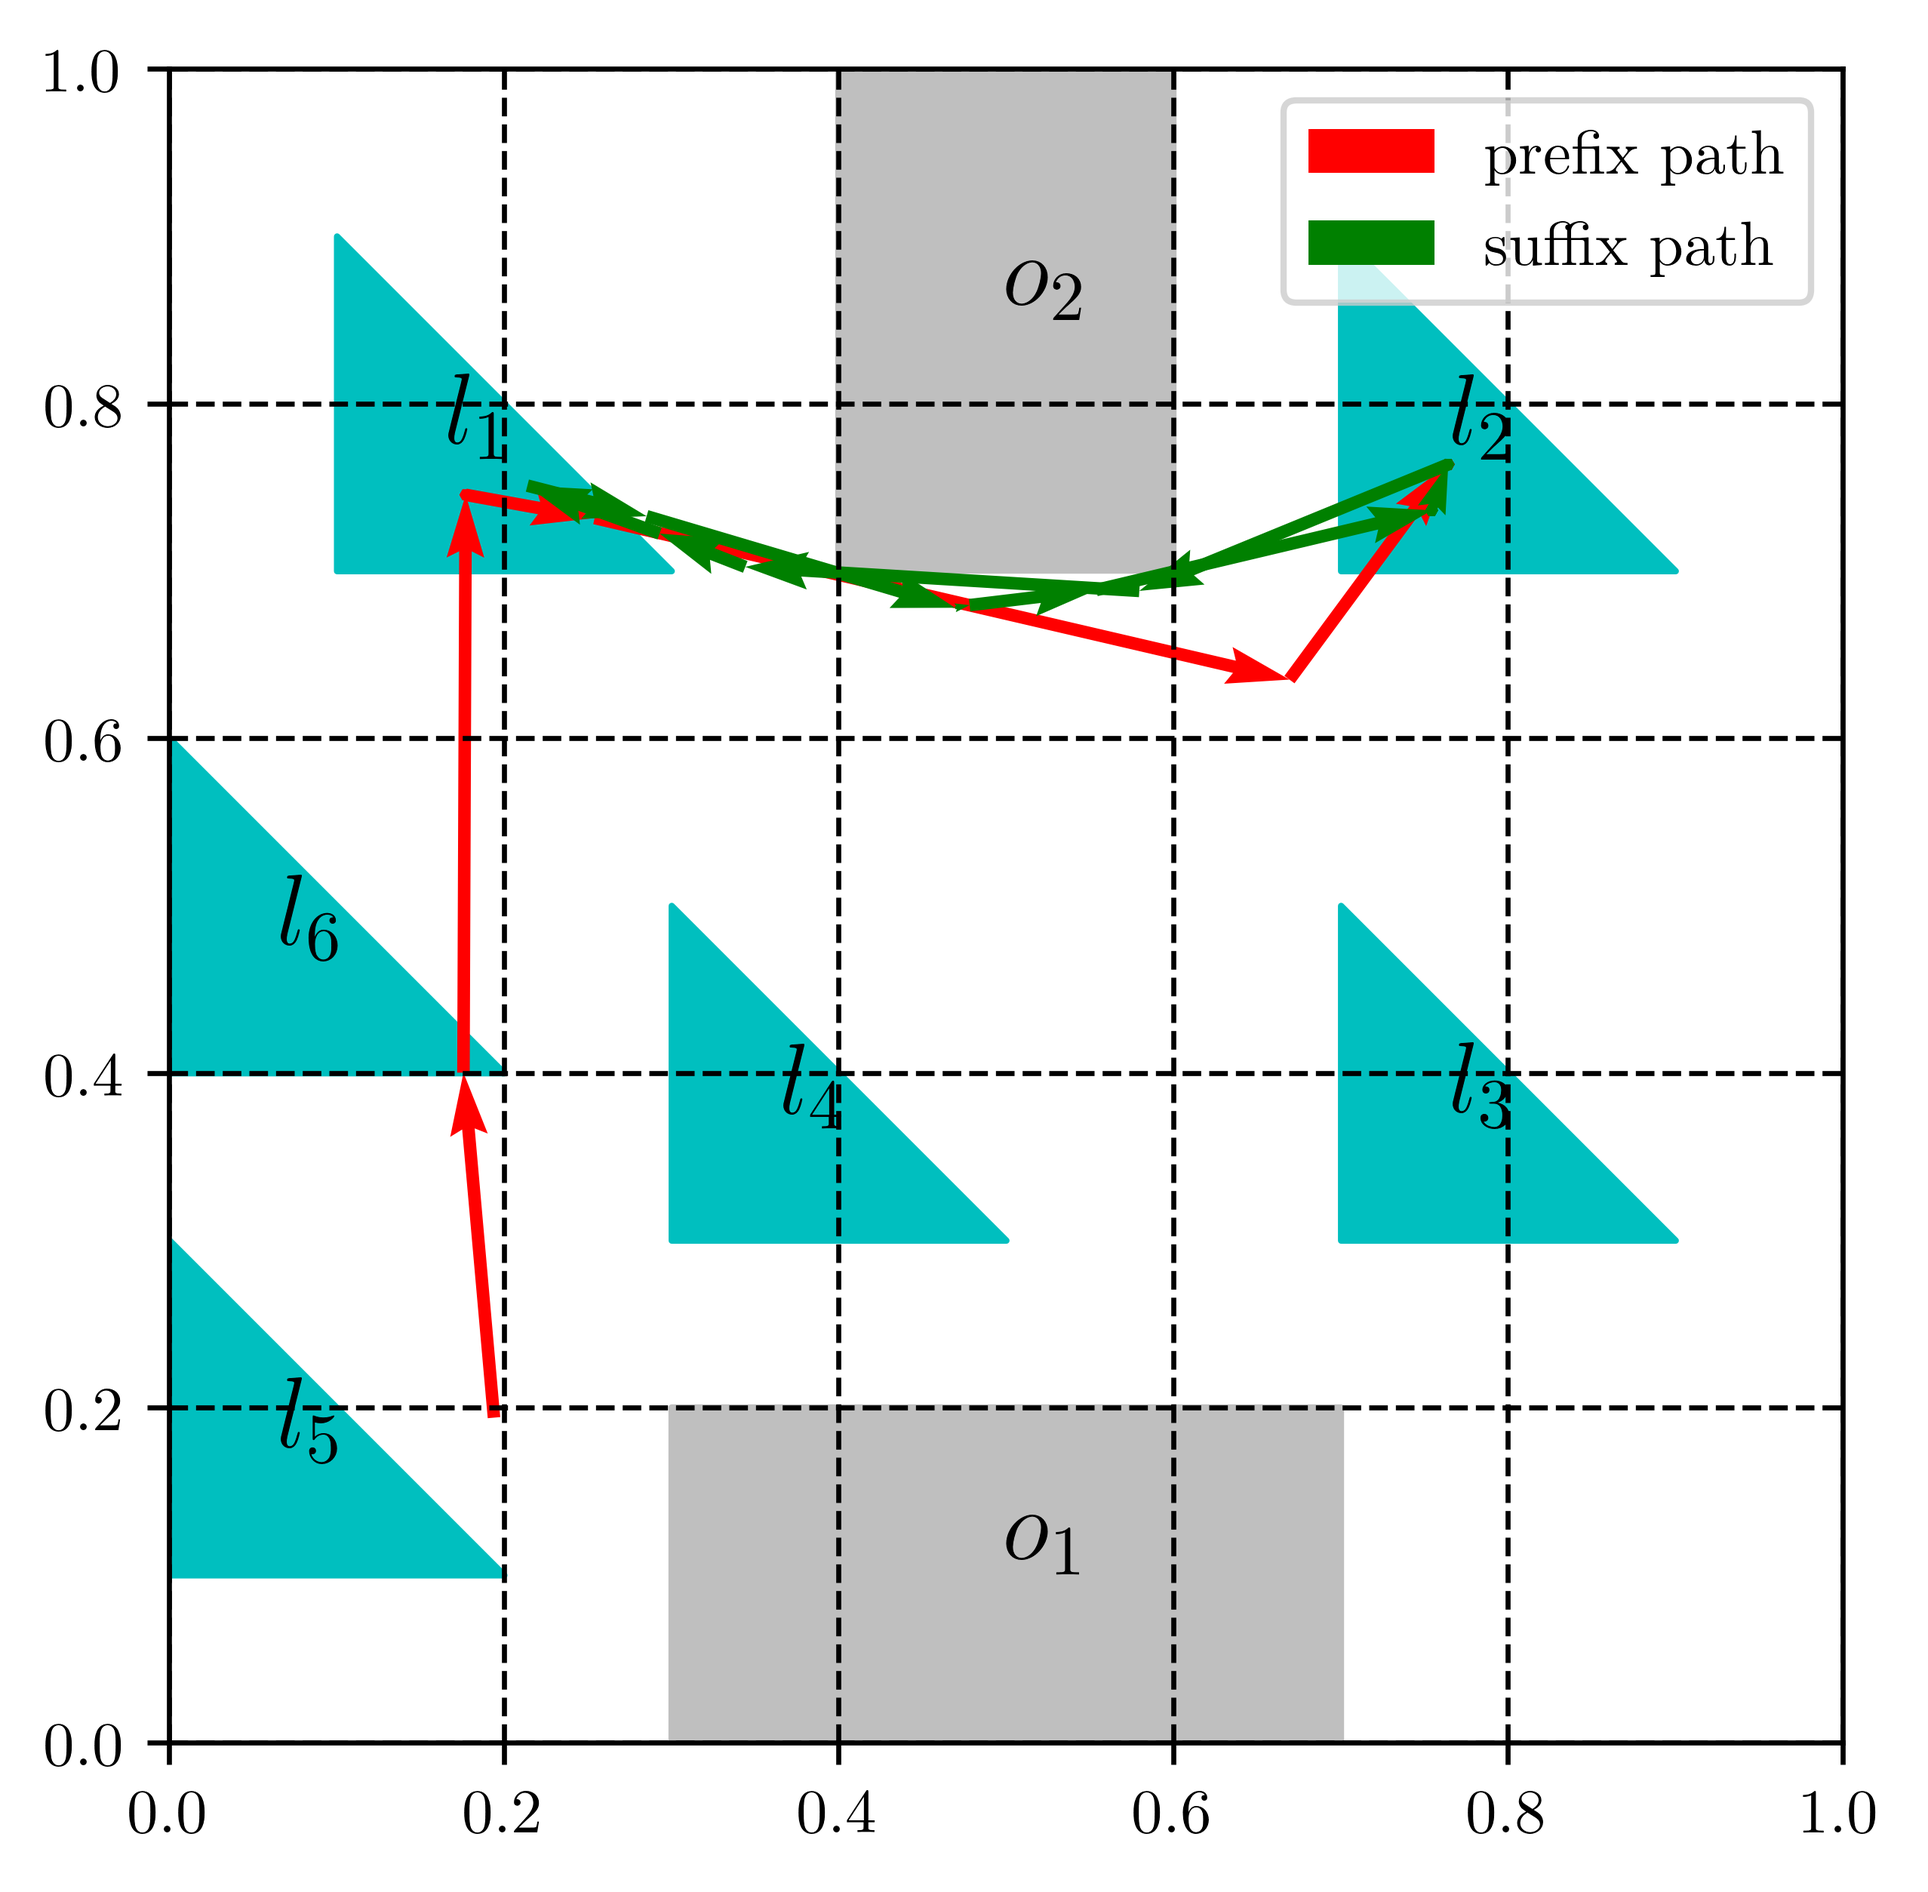
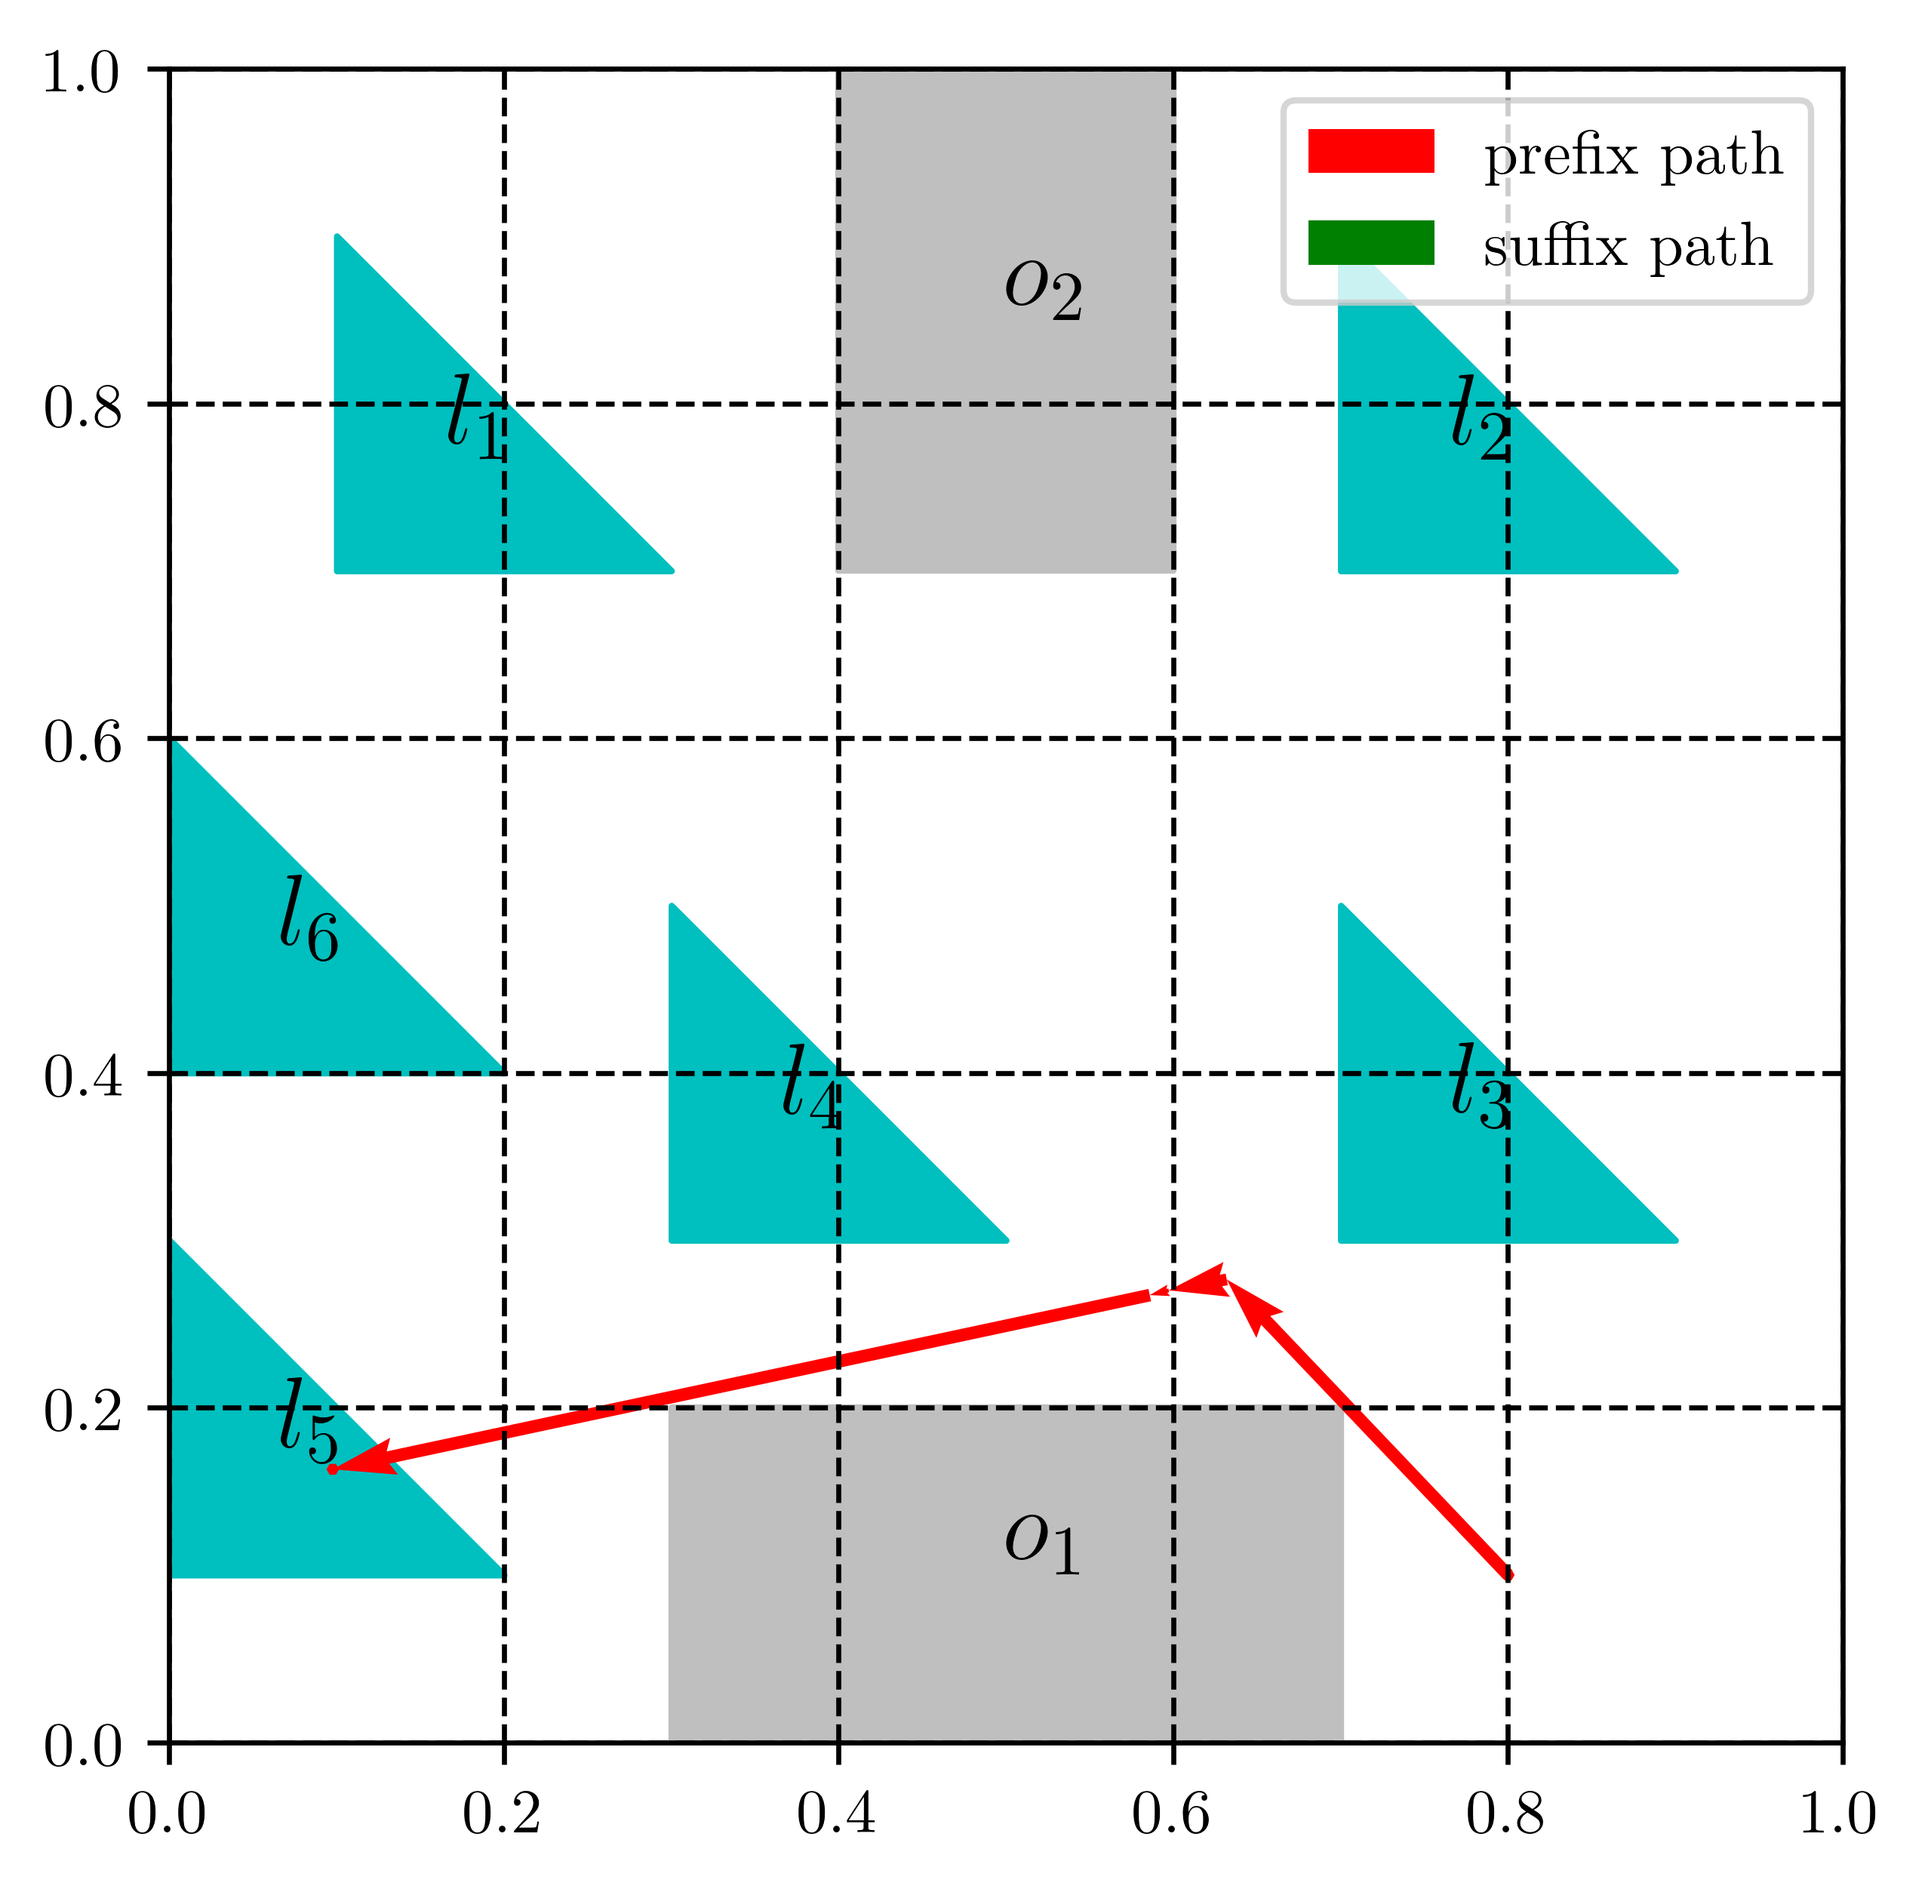
update README

diff --git a/task.py b/task.py
@@ -32,23 +32,23 @@ class Task(object):
 
         # task specification, e_i are subformulas, li_j means the j-th robot is at regions l_i
         # --------------------------- Task 1 -------------------------------
-        self.formula = '<> e1 && []<> (e2 && <> e3) && (!e3 U e4) && []!e5'
-        self.subformula = {1: '(l1_1)',
-                           2: '(l2_1)',
-                           3: '(l3_1)',
-                           4: '(l4_1)',
-                           5: '(l5_1)',
-                           }
-        # --------------------------- Task 2 -------------------------------
-        # self.formula = '[]<> e1 && []<> e3 && !e1 U e2'
+        # self.formula = '<> e1 && []<> (e2 && <> e3) && (!e3 U e4) && []!e5'
         # self.subformula = {1: '(l1_1)',
-        #                    2: '(l6_1)',
-        #                    3: '(l5_2)'
-        #                 }
+        #                    2: '(l2_1)',
+        #                    3: '(l3_1)',
+        #                    4: '(l4_1)',
+        #                    5: '(l5_1)',
+        #                    }
+        # --------------------------- Task 2 -------------------------------
+        self.formula = '[]<> e1 && []<> e3 && !e1 U e2'
+        self.subformula = {1: '(l1_1)',
+                           2: '(l6_1)',
+                           3: '(l5_2)'
+                        }
 
         # --------------------------- Task 3 -------------------------------
         # randomly generate tasks
-        # num_of_robot_in_one_group = 8
+        # num_of_robot_in_one_group = 3
         # group = np.array(range(1, self.number_of_robots + 1))
         # np.random.shuffle(group)
         # group = group.reshape(8, num_of_robot_in_one_group)
@@ -67,10 +67,8 @@ class Task(object):
         #         subformula.append('l' + str(np.random.randint(1, 7)) + '_' + str(robot))
         #
         #     formula.append('(' + ' && '.join(subformula) + ')')
-        #
-        # self.subformula = {i: formula[i-1] for i in range(1, 9)}
-        # self.formula = '[]<> e1 && []<> e2 && []<> e3 && []<>(e4 && <>(e5 && <> e6)) && <> e7 && []<>e8 && (!e7 U e8)'
 
+        # self.subformula = {i: formula[i-1] for i in range(1, 9)}
         # --------------------------- Task 4 -------------------------------
         # self.formula = '[]<> e1 && []<> e2 && []<> e3 && []<>(e4 && <>(e5 && <> e6))'
         # self.subformula = {
@@ -82,7 +80,8 @@ class Task(object):
         #     6: '(l6_3)'}
 
         # randomly generate initial locations of robots with empty atomic propositions
-        self.number_of_robots = 1   # self.number_of_robots = num_of_robot_in_one_group * 8 for task 5
+        # self.number_of_robots = num_of_robot_in_one_group * 8  # for task 3
+        self.number_of_robots = 2
         self.init = []
         self.init_label = []
         for i in range(self.number_of_robots):
@@ -97,3 +96,4 @@ class Task(object):
             self.init_label.append(ap)
         self.init = tuple(self.init)          # in the form of ((x, y), (x, y), ...)
         self.threshold = 0.005                # minimum distance between any pair of robots
+

diff --git a/biased_TLRRT_star.py b/biased_TLRRT_star.py
@@ -29,17 +29,17 @@ print('Time for constructing the NBA: {0:.4f} s'.format(NBA_time))
 workspace = Workspace()
 
 # parameters
-n_max = 40000
+n_max = 10000
 para = dict()
 # lite version, excluding extending and rewiring
 para['is_lite'] = True
 # step_size used in function near
 para['step_size'] = 0.25 * buchi.number_of_robots
-# probability
+# probability of choosing node q_p_closest
 para['p_closest'] = 0.9
-# target point
+# probability used when deciding the target point
 para['y_rand'] = 0.99
-# threshold for collision avoidance
+# minimum distance between any pair of robots
 para['threshold'] = task.threshold
 
 cost_path = OrderedDict()
@@ -93,7 +93,7 @@ for b_init in buchi_graph.graph['init']:
 
         print('-------------- suffix path for {0}-th pre-goal (of {1} in total) --------------'.format(i+1,
                                                                                                    len(tree_pre.goals)))
-        print('{0}-th pre-goals: {1} accepting goals found'.format(i, len(tree_suf.goals)))
+        print('{0}-th pre-goals: {1} accepting goals found'.format(i+1, len(tree_suf.goals)))
 
         # couldn't find the path within predtermined number of iterations
         if not cost_path_suf_cand:

diff --git a/buchi_parse.py b/buchi_parse.py
@@ -63,7 +63,7 @@ class Buchi(object):
                 relation_group = re.findall(r':: (\(.*?\)) -> goto (\w+)\n\t', state_if_fi[0])
                 for symbol, next_state in relation_group:
                     # delete edges with multiple labels
-                    # if ' && ' in symbol: continue
+                    if ' && ' in symbol: continue
                     # whether the edge is feasible in terms of atomic propositions
                     for k in order_key:
                         symbol = symbol.replace('e{0}'.format(k), self.subformula[k])

diff --git a/construct_biased_tree.py b/construct_biased_tree.py
@@ -54,7 +54,7 @@ def construction_biased_tree(tree, n_max):
             if not tree.lite and added:
                 tree.rewire(q_new, near_nodes, obs_check)
 
-        # first accepting state
+        # detect the first accepting state
         if len(tree.goals): break
 
     return tree.find_path(tree.goals)

diff --git a/README.md b/README.md
@@ -25,11 +25,13 @@ states.
 
 # Usage
 
-First, specify the LTL task in the file [task.py](/task.py), which mainly involves the assigned task, the number of robots
+* First, specify the LTL task in the file [task.py](/task.py), which mainly involves the assigned task, the number of robots
 , the initial locations of robots and the minimum distance between any pair of robots, and workspace in the file [workspace.py](/workspace.py) that contains the information 
-about the size of the workspace, the layout of regions and obstacles. Second, set the parameters used in the TLRRT* in the
+about the size of the workspace, the layout of regions and obstacles. 
+* Second, set the parameters used in the TLRRT* in the
 file [construct_biased_tree.py](/construct_biased_tree.py), such as the maximum number of iterations, the step size, whether the lite version that does not use function `near`, `extend` and `rewire` in 
-[biased_tree.py](/biased_tree.py) is used. Finally, after the TLRRT* terminates, the runtime and the cost of the solution is 
+[biased_tree.py](/biased_tree.py) is used. 
+* Finally, after the TLRRT* terminates, the runtime and the cost of the solution is 
 presented. What's more, the path composed of prefix and suffix parts for each robot is drawn with workspace layout when the number of robots is relatively small, otherwise, the path for each
 robot is printed onto the screen when the number of robots is large. 
 
@@ -41,8 +43,30 @@ The workspace of size `1-by-1` is shown below, with `l_1`-`l_6` being regions an
 <img src="workspace.png"  width="750" height="500">
 </p>
 
-## Case 1
-The task is specified by 
+## Test Cases
+For all the following test cases, the same set of parameters are used.
+```python
+# parameters
+# maximum number of iterations
+n_max = 10000
+para = dict()
+# lite version, excluding extending and rewiring
+para['is_lite'] = True
+# step_size used in function near
+para['step_size'] = 0.25 * buchi.number_of_robots
+# probability used when choosing node q_p_closest
+para['p_closest'] = 0.9
+# probability used when deciding the target point 
+para['y_rand'] = 0.99
+# minimum distance between any pair of robots  
+para['threshold'] = 0.005
+```
+Furthermore, the construction of the tree terminates once an accepting node is detected, which is controlled in [construct_biased_tree.py](construct_biased_tree.py) by line
+```python
+if len(tree.goals): break
+```
+### Case 1
+The task involving one robot is specified by 
 ```python
 self.formula = '<> e1 && []<> (e2 && <> e3) && (!e3 U e4) && []!e5'
 self.subformula = { 1: '(l1_1)',
@@ -52,26 +76,25 @@ self.subformula = { 1: '(l1_1)',
                     5: '(l5_1)',
                     }     
 self.init = ((0.8, 0.1), )  # in the form of ((x,y), (x,y), ...)    
-self.threshold = 0.005      # minimum distance between any pair of robots  
 ```
-The result regarding 
-```python
-Time for constructing the NBA: 0.1324 s
+The output result during execution is 
+```
+Time for constructing the NBA: 0.1343 s
 ------------------------------ prefix path --------------------------------
-Time for the prefix path: 0.1253 s
+Time for the prefix path: 0.0516 s
 1 accepting goals found
 -------------- suffix path for 1-th pre-goal (of 1 in total) --------------
-0-th pre-goals: 1 accepting goals found
-Time for the suffix path: 0.0809 s
+1-th pre-goals: 1 accepting goals found
+Time for the suffix path: 0.0561 s
 ------------------------ prefix + suffix path -----------------------------
 t_pre  | t_suf  | t_total | cost
-0.1253 | 0.0809 | 0.3385  | 2.3579
+0.0516 | 0.0561 | 0.2421  | 1.7245
 ------------------------- print the path path -----------------------------
 (. for empty label, || ... || for the suffix path)
-robot 1 :  . -->  . -->  . -->  . --> l1 -->  . --> l1 -->  . -->  . -->  . -->  . --> l2 -->  . -->  . -->  . --> l4 --> l4 --> || l4 -->  . --> l3 -->  . -->  . --> l2 --> l2 -->  . -->  . --> l4 --> || 
-
+robot 1 :  . -->  . -->  . -->  . -->  . -->  . -->  . --> l4 --> l1 -->  . -->  . --> l2 --> l2 --> || l2 --> l3 --> l3 -->  . --> l2 --> l2 --> l2 --> || 
 ```
-## Case 2
+### Case 2
+The task involving two robots is specified by 
 ```python
 self.formula = '[]<> e1 && []<> e3 && !e1 U e2'
 self.subformula = { 1: '(l1_1)',
@@ -79,14 +102,45 @@ self.subformula = { 1: '(l1_1)',
                     3: '(l5_2)'
                     }
 self.init = ((0.8, 0.1), (0.8, 0.1))  # in the form of ((x,y), (x,y), ...)    
-self.threshold = 0.005                # minimum distance between any pair of robots                    
 ```
-## Case 3
+The output result during execution is 
+```
+Time for constructing the NBA: 0.0225 s
+------------------------------ prefix path --------------------------------
+Time for the prefix path: 0.1162 s
+1 accepting goals found
+-------------- suffix path for 1-th pre-goal (of 1 in total) --------------
+1-th pre-goals: 1 accepting goals found
+Time for the suffix path: 0.0273 s
+------------------------ prefix + suffix path -----------------------------
+t_pre  | t_suf  | t_total | cost
+0.1162 | 0.0273 | 0.1660  | 0.8407
+------------------------- print the path path -----------------------------
+(. for empty label, || ... || for the suffix path)
+robot 1 :  . -->  . -->  . --> l4 --> l6 -->  . -->  . -->  . --> l1 --> l1 --> || l1 --> || 
+robot 2 :  . -->  . -->  . -->  . -->  . -->  . -->  . -->  . --> l5 --> l5 --> || l5 --> ||
+```
+### Case 3
+The task involving `8*num_of_robot_in_one_group` robots is specified by 
 ```python
 self.formula = '[]<> e1 && []<> e2 && []<> e3 && []<>(e4 && <>(e5 && <> e6)) && <> e7 && []<>e8 && (!e7 U e8)'
 ```
 where each subformula is randomly generated, so is the initial location of each robot. It took less time when the following code in [buchi_parse.py](buchi_parse.py) is uncommented.
 ```python
 if ' && ' in symbol: continue
+```
+
+The output result for `num_of_robot_in_one_group = 3` is as follows. We didn't present the path due to large nuumber of robots
+```
+Time for constructing the NBA: 1.8233 s
+------------------------------ prefix path --------------------------------
+Time for the prefix path: 2.9102 s
+1 accepting goals found
+-------------- suffix path for 1-th pre-goal (of 1 in total) --------------
+1-th pre-goals: 1 accepting goals found
+Time for the suffix path: 2.4176 s
+------------------------ prefix + suffix path -----------------------------
+t_pre  | t_suf  | t_total | cost
+2.9102 | 2.4176 | 7.1510  | 7.9073
 ```
 
